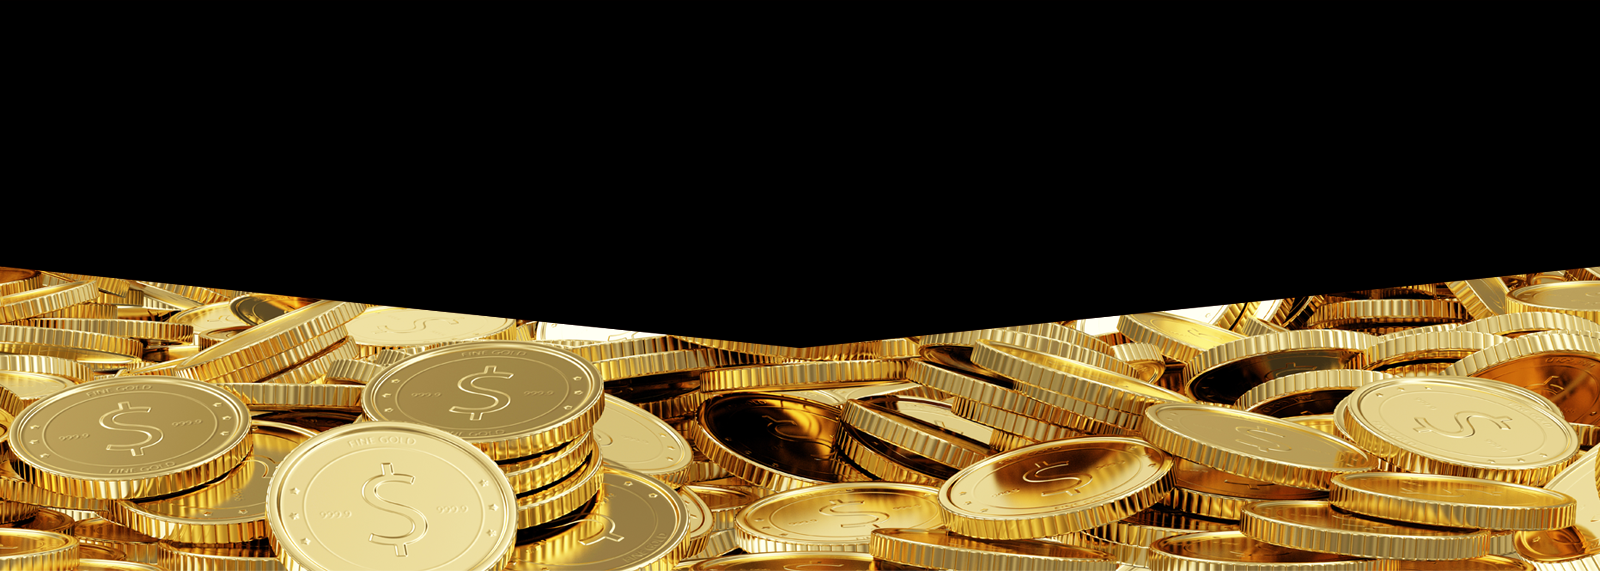
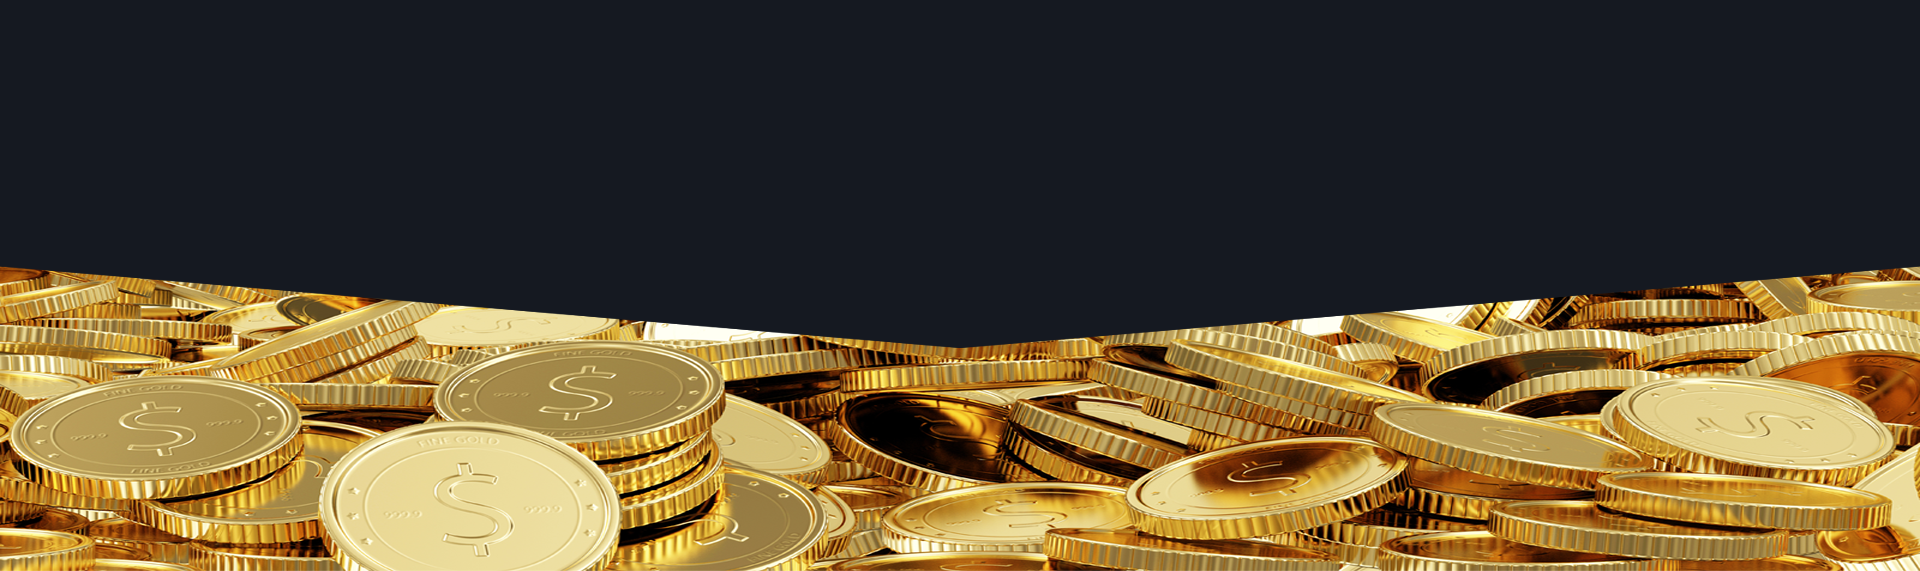
s

diff --git a/assets/templates/crypto/css/sty.css b/assets/templates/crypto/css/sty.css
@@ -343,11 +343,11 @@ body {
 .fly__desc {
   max-width: 550px;
   padding: 30px;
-	color: black;
+	color: white;
   border-radius: 5px;
   font-size: 20px;
   font-style: normal;
-  background: rgba(222, 238, 243, 0.5);
+  background: rgba(21, 25, 33, 0.8);
 }
 
 /*Восьмая секция*/
